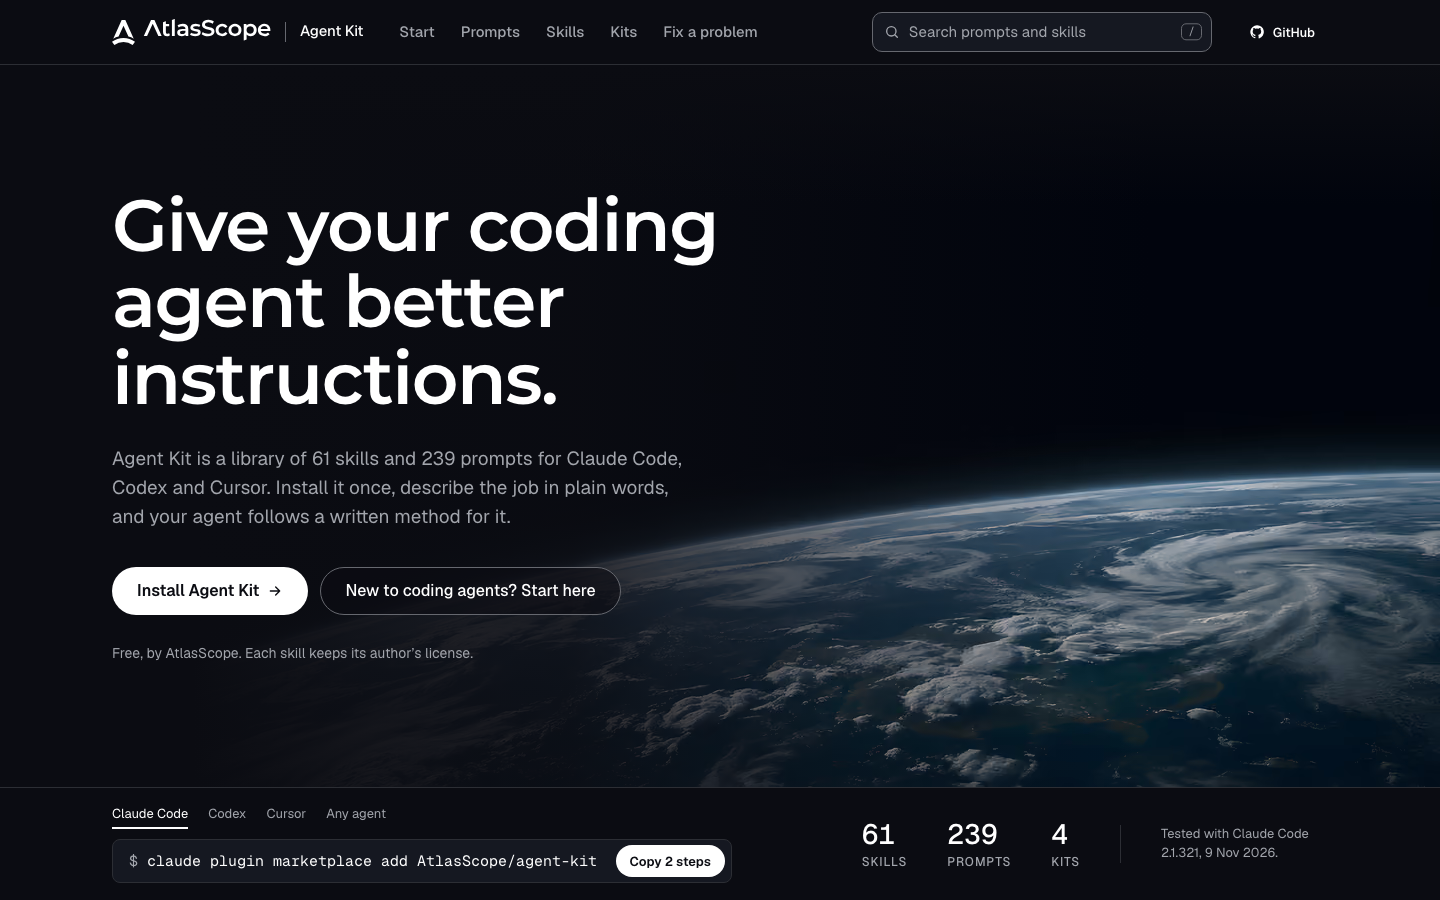
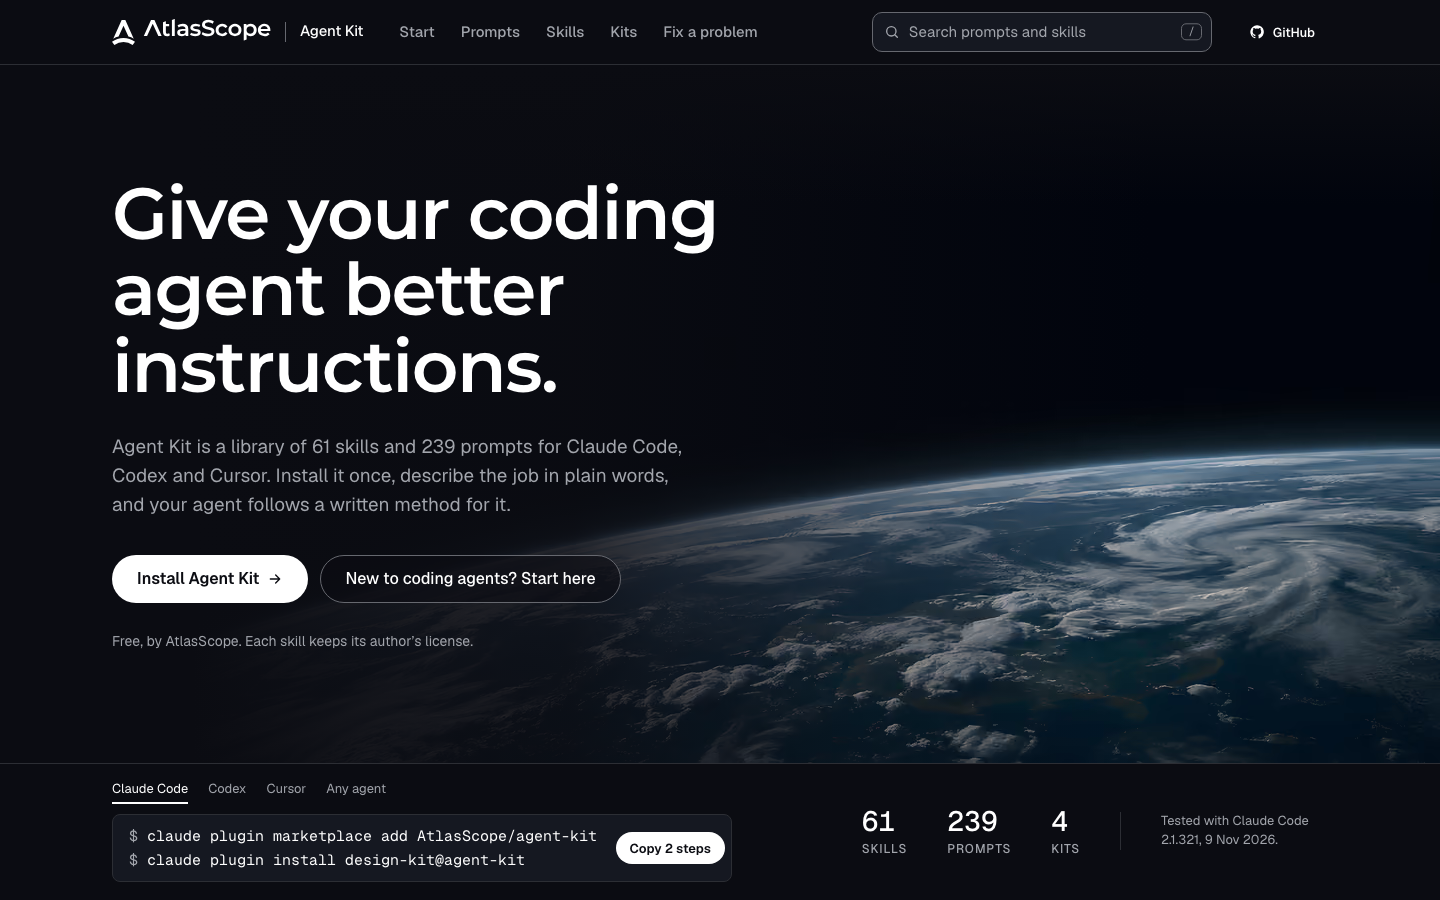
Show every install step and clear the header on the install jump
The strip showed only the first of two install commands, so the second was
nowhere to select if the clipboard was unavailable. It now lists each step.
The command box keeps a two-line height so the strip does not resize between
agents.

The Install button's jump target now allows for the taller tablet and phone
headers, which were covering the agent tabs.

diff --git a/site/app/globals.css b/site/app/globals.css
@@ -499,7 +499,7 @@ svg.i { width: 16px; height: 16px; flex: none; }
 /* Homepage hero: the orbit photo under a solid ink header, text hung from the container's left edge, and a solid
    strip along the bottom with the install command. The logo never sits on the photo. */
 .orbit { --edge: max(var(--gutter), calc(50vw - var(--container) / 2 + var(--gutter))); margin-inline: calc(50% - 50vw); display: grid; grid-template-columns: minmax(0, 1fr); background: var(--color-paper); }
-.orbit__stage { position: relative; display: grid; align-content: center; min-height: clamp(520px, calc(100svh - 65px - 113px), 1000px); padding-block: clamp(24px, 6svh, 64px); overflow: hidden; isolation: isolate; }
+.orbit__stage { position: relative; display: grid; align-content: center; min-height: clamp(520px, calc(100svh - 65px - 137px), 1000px); padding-block: clamp(16px, 4svh, 64px); overflow: hidden; isolation: isolate; }
 .orbit__photo { position: absolute; inset: 0; z-index: -1; background: var(--color-paper) 50% 100% / cover no-repeat; }
 .orbit__photo img { display: block; width: 100%; height: 100%; object-fit: cover; object-position: 50% 100%; }
 /* Ink over the left so the text sits in black sky, and a fade under the header. */
@@ -522,8 +522,10 @@ svg.i { width: 16px; height: 16px; flex: none; }
 .rail__tabs { display: flex; gap: 20px; overflow-x: auto; scrollbar-width: none; padding: 4px; margin: -4px; }
 .rail__tabs button { flex: none; padding: 0 0 4px; border: 0; border-bottom: 2px solid transparent; background: none; color: var(--color-muted); font: 400 0.8125rem/1.4 var(--font-body); white-space: nowrap; cursor: pointer; transition: color var(--dur-short) var(--ease-out), border-color var(--dur-short) var(--ease-out); }
 .rail__tabs button[aria-selected="true"] { color: var(--color-ink); border-bottom-color: var(--color-ink); }
-.rail__cmd { display: flex; align-items: center; gap: var(--space-sm); min-height: 44px; padding: 0 6px 0 var(--space-md); border: 1px solid var(--color-rule); border-radius: 8px; background: var(--color-paper-2); font: 400 0.9375rem/1 var(--font-mono); }
-.rail__cmd code { flex: 1; min-width: 0; overflow: hidden; white-space: nowrap; text-overflow: ellipsis; line-height: 1.6; }
+/* Tall enough for two steps, so the strip does not change height between agents. */
+.rail__cmd { display: flex; align-items: center; gap: var(--space-sm); min-height: 68px; padding: 8px 6px 8px var(--space-md); border: 1px solid var(--color-rule); border-radius: 8px; background: var(--color-paper-2); font: 400 0.9375rem/1 var(--font-mono); }
+.rail__steps { flex: 1; min-width: 0; display: grid; }
+.rail__cmd code { display: block; min-width: 0; overflow: hidden; white-space: nowrap; text-overflow: ellipsis; line-height: 1.6; }
 .rail__cmd code::before { content: "$ "; color: var(--color-muted); }
 .rail__copy { flex: none; min-height: 32px; padding: 0 14px; border: 0; border-radius: 999px; background: var(--color-accent); color: var(--color-accent-ink); font: 600 0.8125rem/1 var(--font-body); cursor: pointer; }
 .rail__stats { display: flex; gap: var(--space-xl); margin: 0 0 0 auto; }
@@ -537,8 +539,9 @@ svg.i { width: 16px; height: 16px; flex: none; }
 /* Narrower than the strip can hold in one row: the counts and the tested line drop under the command. */
 @media (max-width: 68rem) {
   /* The header is taller and the strip wraps here, so the photo area sizes to its text and the command stays on the first screen. */
-  .orbit__stage { align-content: start; min-height: 0; padding-block: var(--space-xl) clamp(56px, 10svh, 200px); }
+  .orbit__stage { align-content: start; min-height: 0; padding-block: var(--space-xl) clamp(40px, 8svh, 200px); }
   .orbit__photo::after { background: linear-gradient(to bottom, #0B0C12, rgba(11,12,18,0) 140px), linear-gradient(to right, #0B0C12 20%, rgba(11,12,18,.8) 42%, rgba(11,12,18,0) 64%); }
+  .orbit__rail { scroll-margin-top: 120px; }
   .rail { flex-wrap: wrap; gap: var(--space-lg); padding-block: var(--space-lg); }
   .rail__install { flex: 1 1 100%; }
   .rail__stats { margin: 0; }
@@ -550,6 +553,7 @@ svg.i { width: 16px; height: 16px; flex: none; }
   .orbit__photo::after { background: linear-gradient(to bottom, #0B0C12 44%, rgba(11,12,18,.7) 62%, rgba(11,12,18,0) 82%); }
   .orbit__body { gap: var(--space-lg); }
   .orbit__cta { width: 100%; } .orbit__cta .btn { flex: 1 1 100%; justify-content: center; }
+  .orbit__rail { scroll-margin-top: 166px; }
   .rail__stats { gap: var(--space-lg); width: 100%; }
   .rail__tested { flex-basis: 100%; padding-left: 0; border-left: 0; }
   /* The whole command shows, so it can be read before it is pasted. */

diff --git a/site/components/InstallRail.tsx b/site/components/InstallRail.tsx
@@ -33,7 +33,7 @@ export function InstallRail({ stats }: { stats: { label: string; value: number }
           ))}
         </div>
         <div className="rail__cmd" id="rail-cmd" role="tabpanel" aria-labelledby={`rt-${cur}`}>
-          <code>{agent.cmd}</code>
+          <div className="rail__steps">{agent.steps.map((s) => <code key={s}>{s}</code>)}</div>
           <CopyButton key={agent.id} className="rail__copy" text={agent.steps.join("\n")} label={agent.steps.length > 1 ? `Copy ${agent.steps.length} steps` : "Copy"} />
         </div>
       </div>
